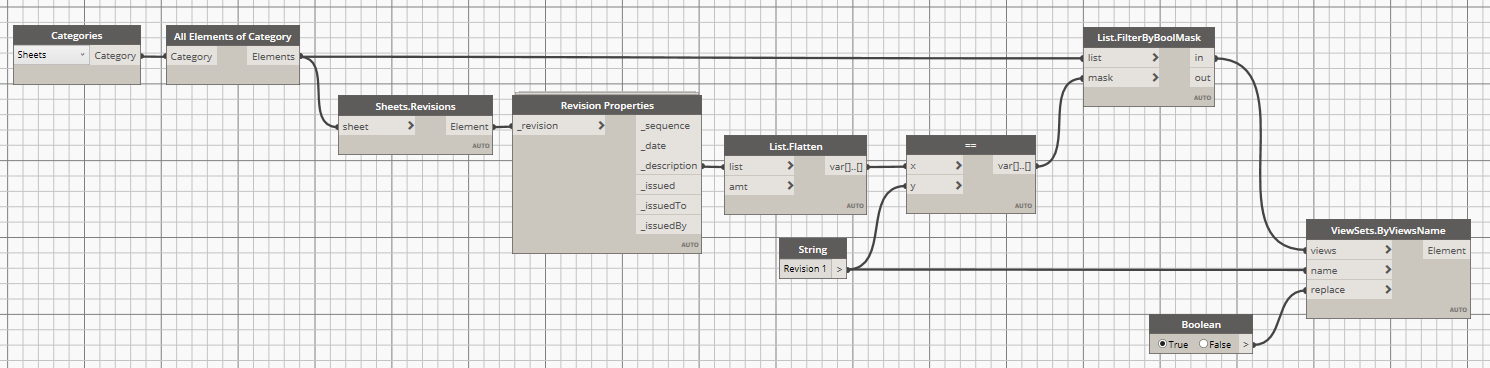
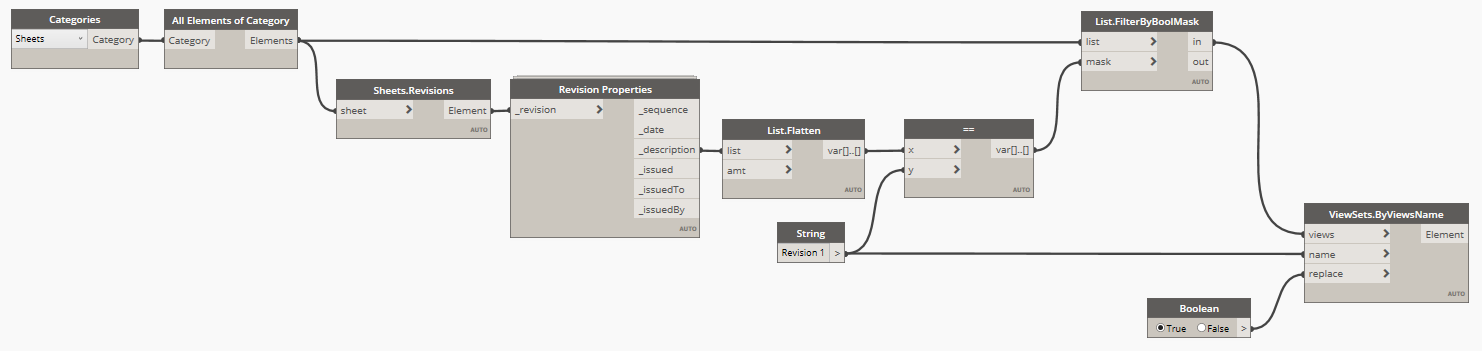
modified readme

Changed region(s): [[0.0, 0.0, 1.0, 1.0], [0.0, 0.5128, 0.3414, 0.5698], [0.0, 0.5983, 0.3414, 0.6553]]

diff --git a/README.md b/README.md
@@ -32,3 +32,9 @@ for i in range(len(systems)):
 OUT = totals
 ```
 
+## Create Sheet Set
+
+* Create a sheet set based on a revision description
+* `Sheets.Revisions`, `Revision Properties`, and `ViewSets.ByViewsName` are apart of the [archi-labs.net](https://archi-lab.net/) package developed by [https://github.com/ksobon](https://github.com/ksobon)
+
+![create_sheet_set](create_sheet_set.png?raw=true "create_sheet_set")
